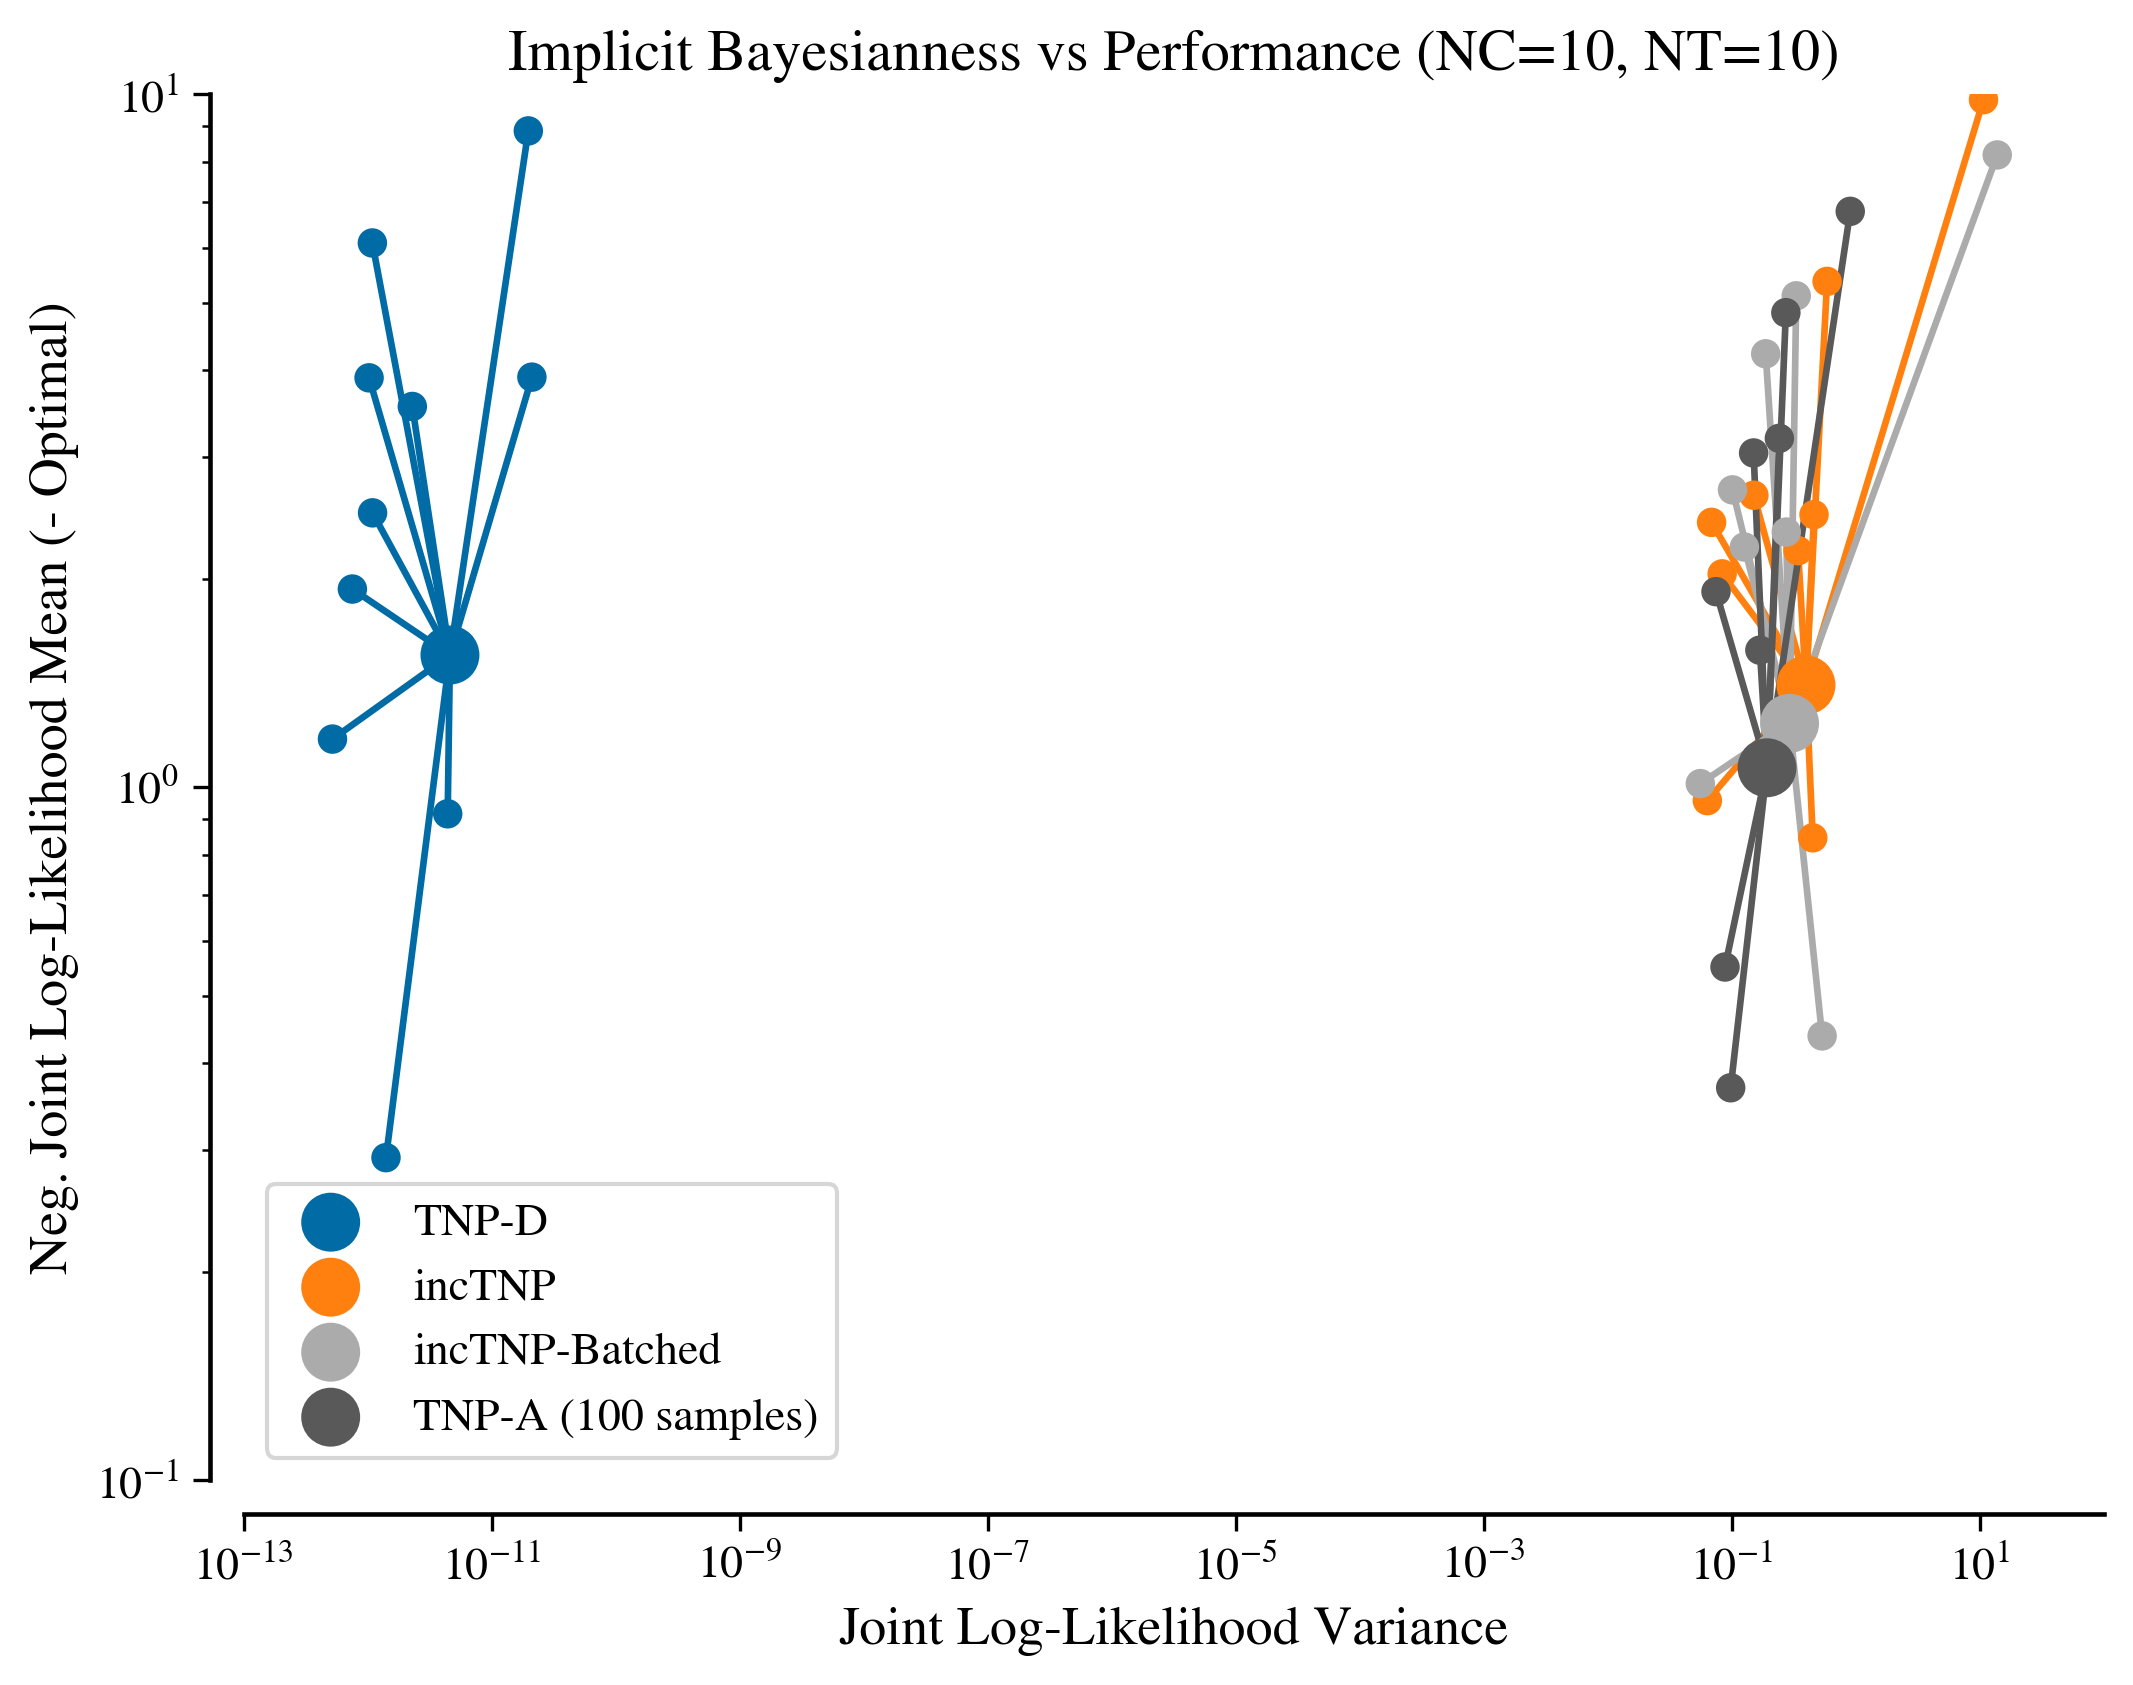
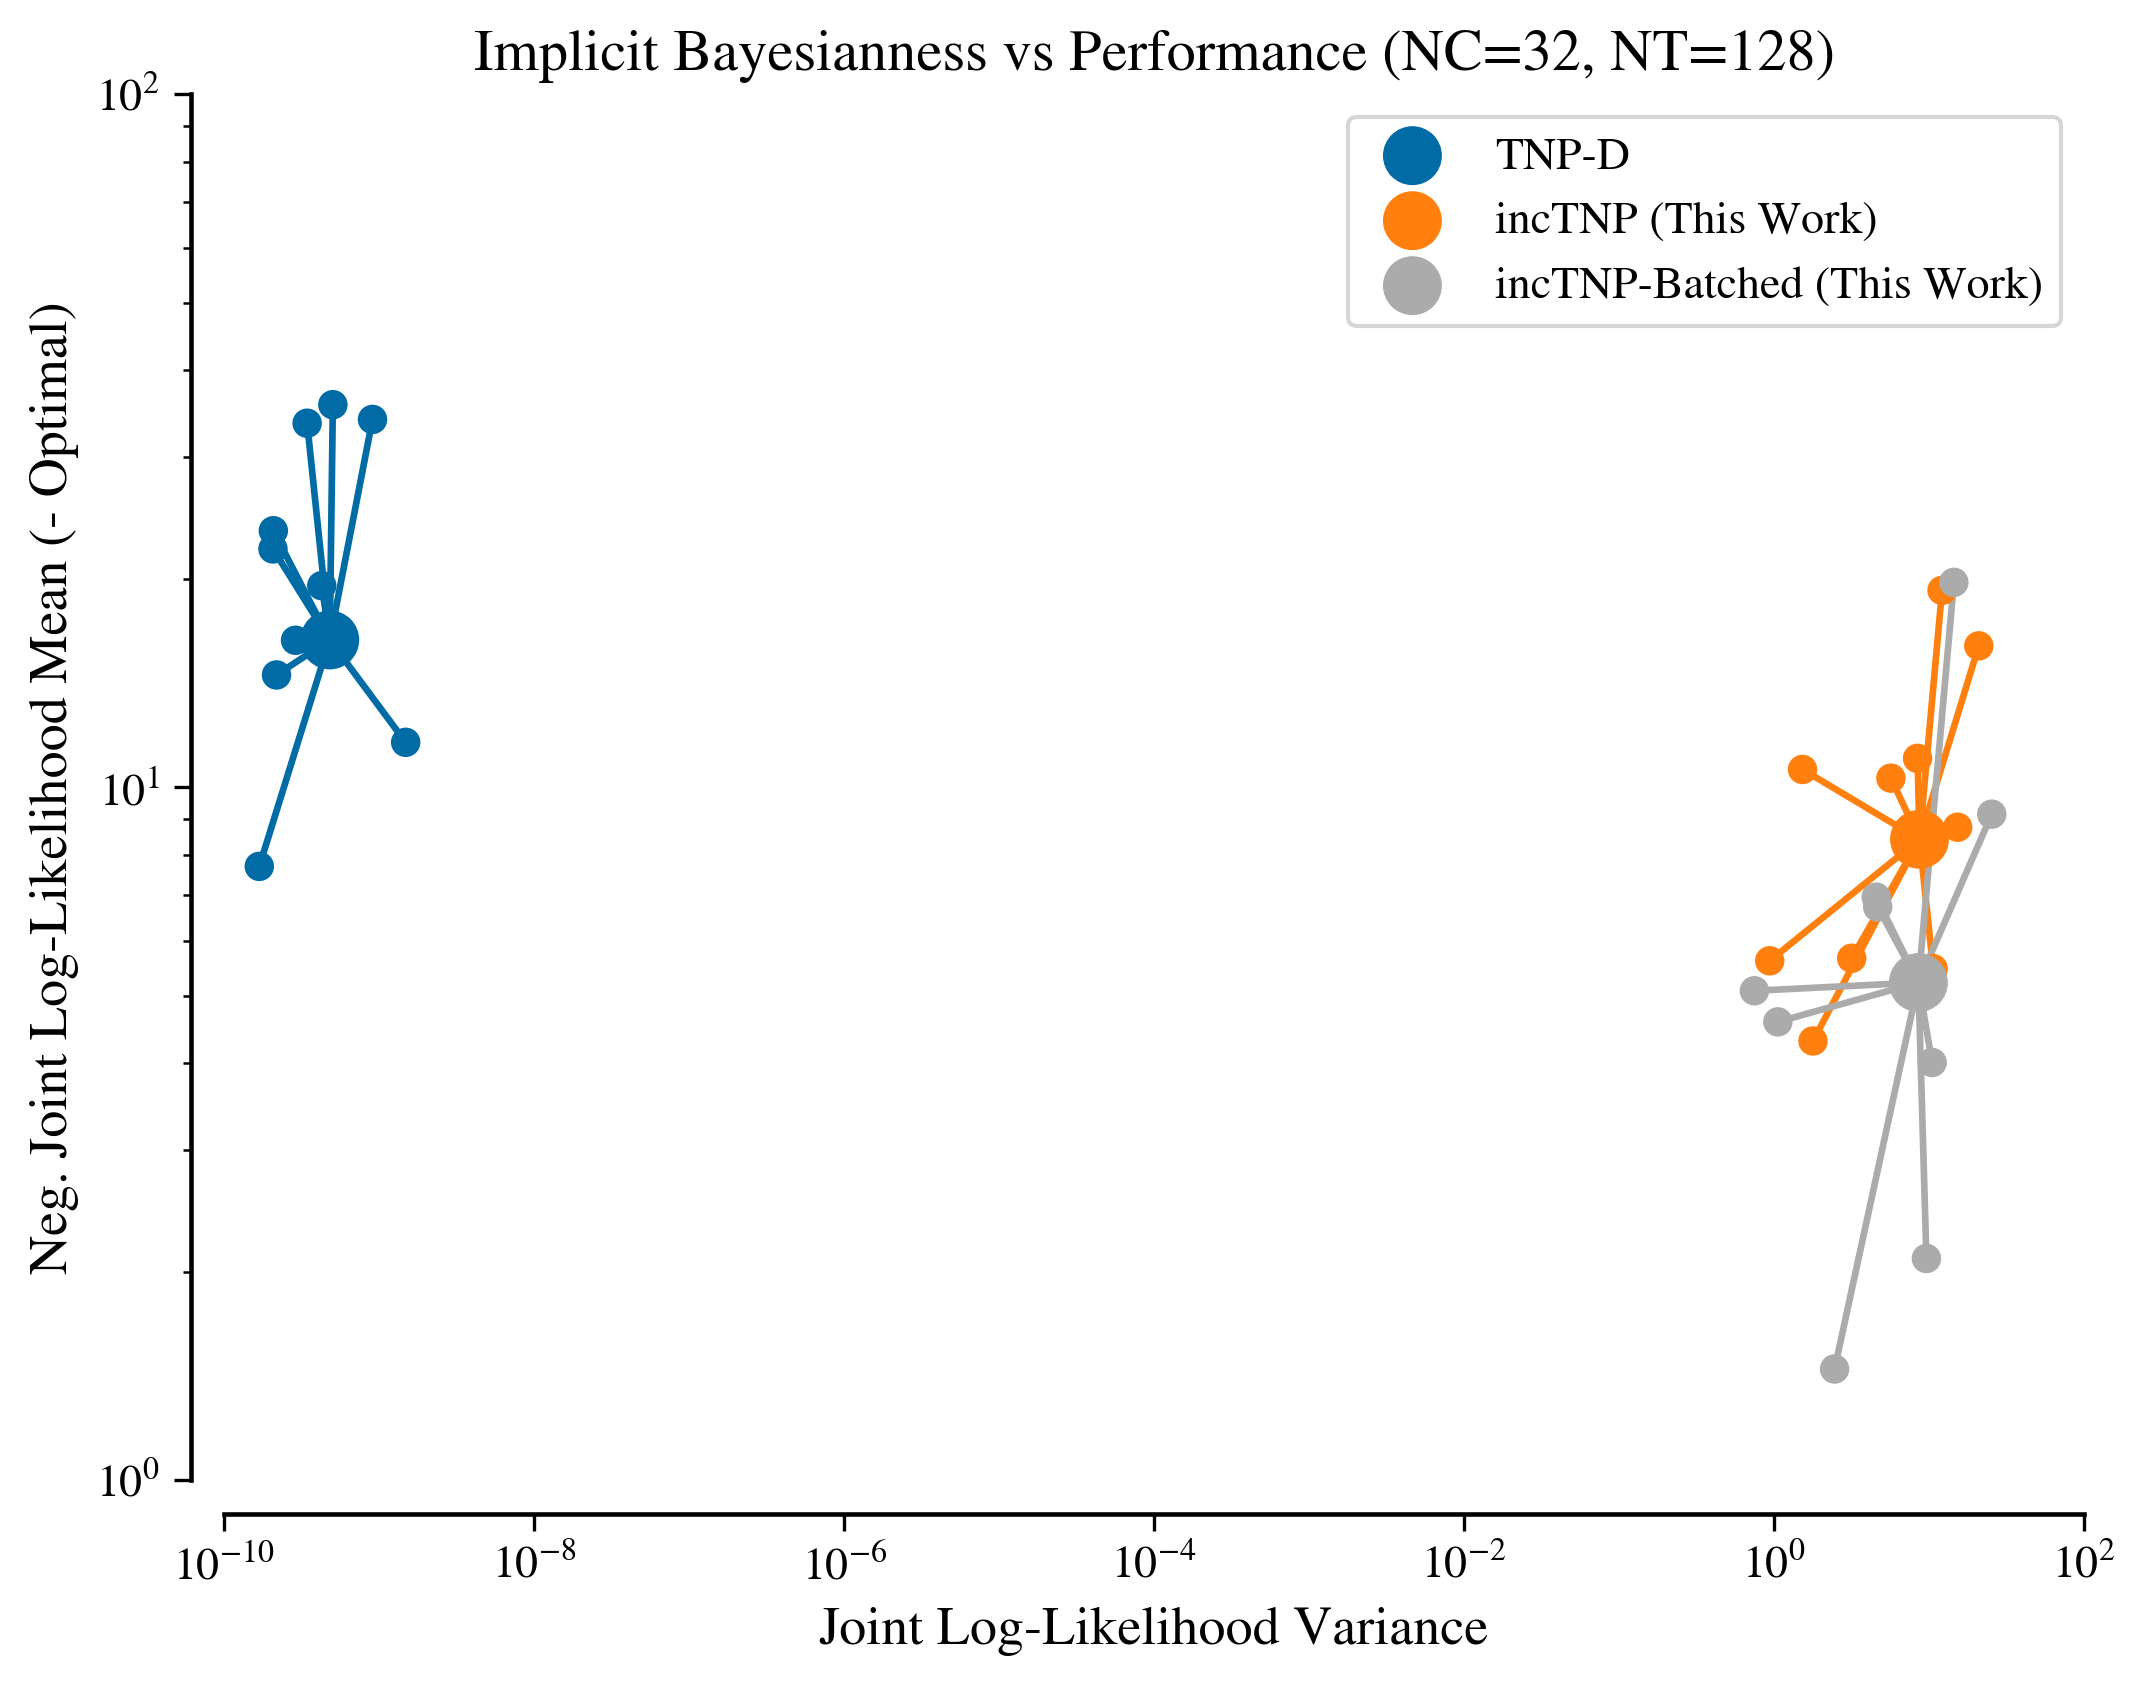
Pptx plot

diff --git a/experiments/exchangeability.py b/experiments/exchangeability.py
@@ -48,7 +48,7 @@ matplotlib.rcParams.update({
 @torch.no_grad()
 def m_var_fixed(tnp_model, xc: torch.Tensor, yc: torch.Tensor, xt: torch.Tensor, yt: torch.Tensor, perms_ctx: torch.Tensor, 
     gt_pred, return_sample_index: Optional[int] = None,
-    sub_batch_size=256):
+    sub_batch_size=1024):
     # Computes ground truth nll measure (as mentioned in caption of figure 2)
     _, _, gt_loglik = gt_pred(
         xc=xc,
@@ -305,7 +305,7 @@ def get_plot_rbf(nc, nt, samples_per_epoch):
     context_range = [[-2.0, 2.0]]
     target_range = [[-2.0, 2.0]]
     noise_std=0.1
-    batch_size = 64
+    batch_size = 128
     deterministic = True
 
     rbf_kernel_factory = partial(RBFKernel, ard_num_dims=ard_num_dims, min_log10_lengthscale=min_log10_lengthscale,
@@ -318,17 +318,17 @@ def get_plot_rbf(nc, nt, samples_per_epoch):
 
 # Attempts to recreate something like figure 2
 def plot_models_setup_rbf_same():
-    nc, nt = 10, 10 
-    samples_per_epoch = 1600 # How many datapoints in datasets
+    nc, nt = 32, 128 
+    samples_per_epoch = 4096 # How many datapoints in datasets
     # Defines each model
     models = []
     tnp_ar_cptk, tnp_ar_yml, tnp_name = 'experiments/configs/synthetic1dRBF/gp_tnpa_rangesame.yml', 'pm846-university-of-cambridge/tnpa-rbf-rangesame/model-wbgdzuz5:v200', "TNP-A"
     tnp_ar_samples = [100]
     tnp_plain = ['experiments/configs/synthetic1dRBF/gp_plain_tnp_rangesame.yml', 'pm846-university-of-cambridge/plain-tnp-rbf-rangesame/model-7ib3k6ga:v200', "TNP-D"]
-    inc_tnp = ['experiments/configs/synthetic1dRBF/gp_causal_tnp_rangesame.yml', 'pm846-university-of-cambridge/mask-tnp-rbf-rangesame/model-vavo8sh2:v200', "incTNP"]
-    inc_tnp_batched=['experiments/configs/synthetic1dRBF/gp_batched_causal_tnp_rbf_rangesame.yml', 'pm846-university-of-cambridge/mask-batched-tnp-rbf-rangesame/model-xtnh0z37:v200', "incTNP-Batched"]
+    inc_tnp = ['experiments/configs/synthetic1dRBF/gp_causal_tnp_rangesame.yml', 'pm846-university-of-cambridge/mask-tnp-rbf-rangesame/model-vavo8sh2:v200', "incTNP (This Work)"]
+    inc_tnp_batched=['experiments/configs/synthetic1dRBF/gp_batched_causal_tnp_rbf_rangesame.yml', 'pm846-university-of-cambridge/mask-batched-tnp-rbf-rangesame/model-xtnh0z37:v200', "incTNP-Batched (This Work)"]
     models.extend([tnp_plain, inc_tnp, inc_tnp_batched])
-    for i in tnp_ar_samples: models.append([tnp_ar_cptk, tnp_ar_yml, tnp_name, i])
+    #for i in tnp_ar_samples: models.append([tnp_ar_cptk, tnp_ar_yml, tnp_name, i])
 
     
     return models, nc, nt, samples_per_epoch
@@ -345,7 +345,7 @@ def plot_models(helper_tuple):
     all_xs = []
     all_ys = []
     # Exchange hyperparams
-    no_permutations=32
+    no_permutations=64
     use_autoreg_eq=False
     max_samples=samples_per_epoch
     #max_samples = 100

diff --git a/experiments/plot_adversarial_perms.py b/experiments/plot_adversarial_perms.py
@@ -350,6 +350,10 @@ def plot_parallel_coordinates_bezier(
 
     plt.close()
 
+# Simple line graph plotting log probs as context set incrementally built up
+def plot_log_p_lines(log_p_s):
+    raise Error("Implement me")
+
 
 # Plots range of likelihoods with different permutations
 def plot_log_p_bins(log_p, file_name, nc, nt, plain_tnp_perf=None, lines=[]):
@@ -470,6 +474,7 @@ def visualise_perms(tnp_model, perms: torch.tensor, log_p: torch.tensor, xc: tor
     plot_log_p_bins(log_p.cpu(), f"{folder_path}/bins_dist_greedy_lines_id_{file_id}", xc.shape[1], xt.shape[1], plain_tnp_mean, lines)
     plot_parallel_coordinates_bezier(perms=perms_greedy,log_p=log_p_greedy,
          xc=xc, xt=xt, file_name=f"{folder_path}/greedy_parra_cords_{file_id}", plot_targets=plot_targets, alpha_line=1.0)
+    plot_log_p_lines([(inc_logps_worst, "Worst Greedy"), (inc_logps_median, "Median Greedy"), (inc_logps_best, "Median Best")])
 
 
 def get_model(config_path, weights_and_bias_ref, device='cuda'):
